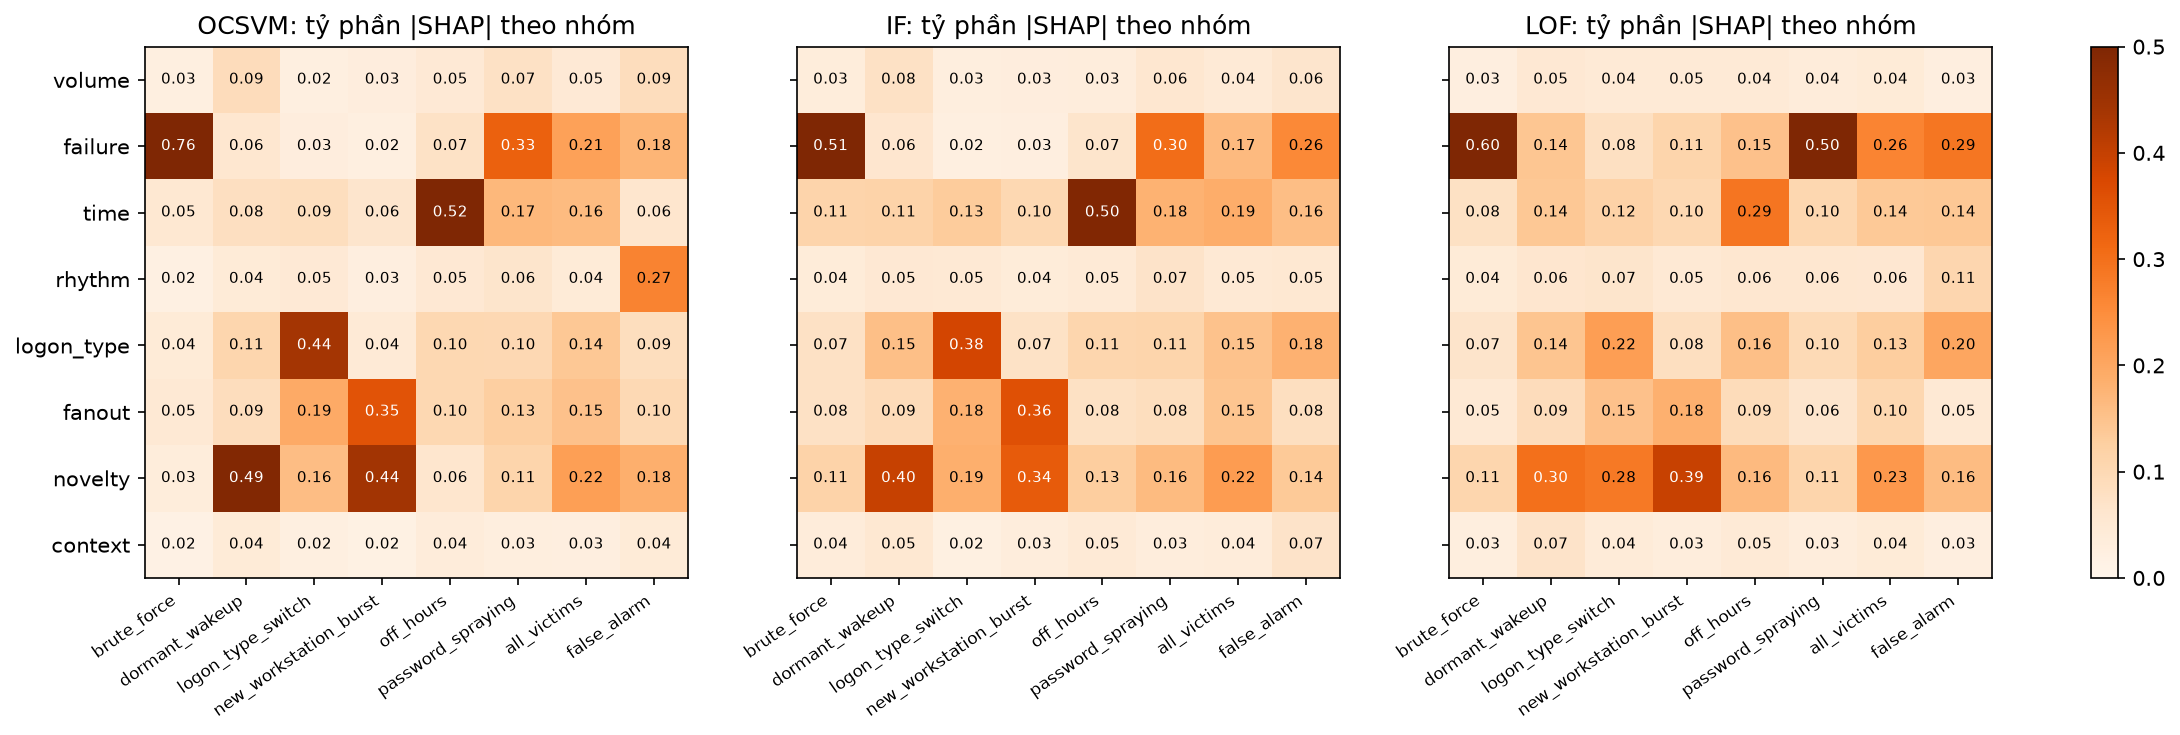
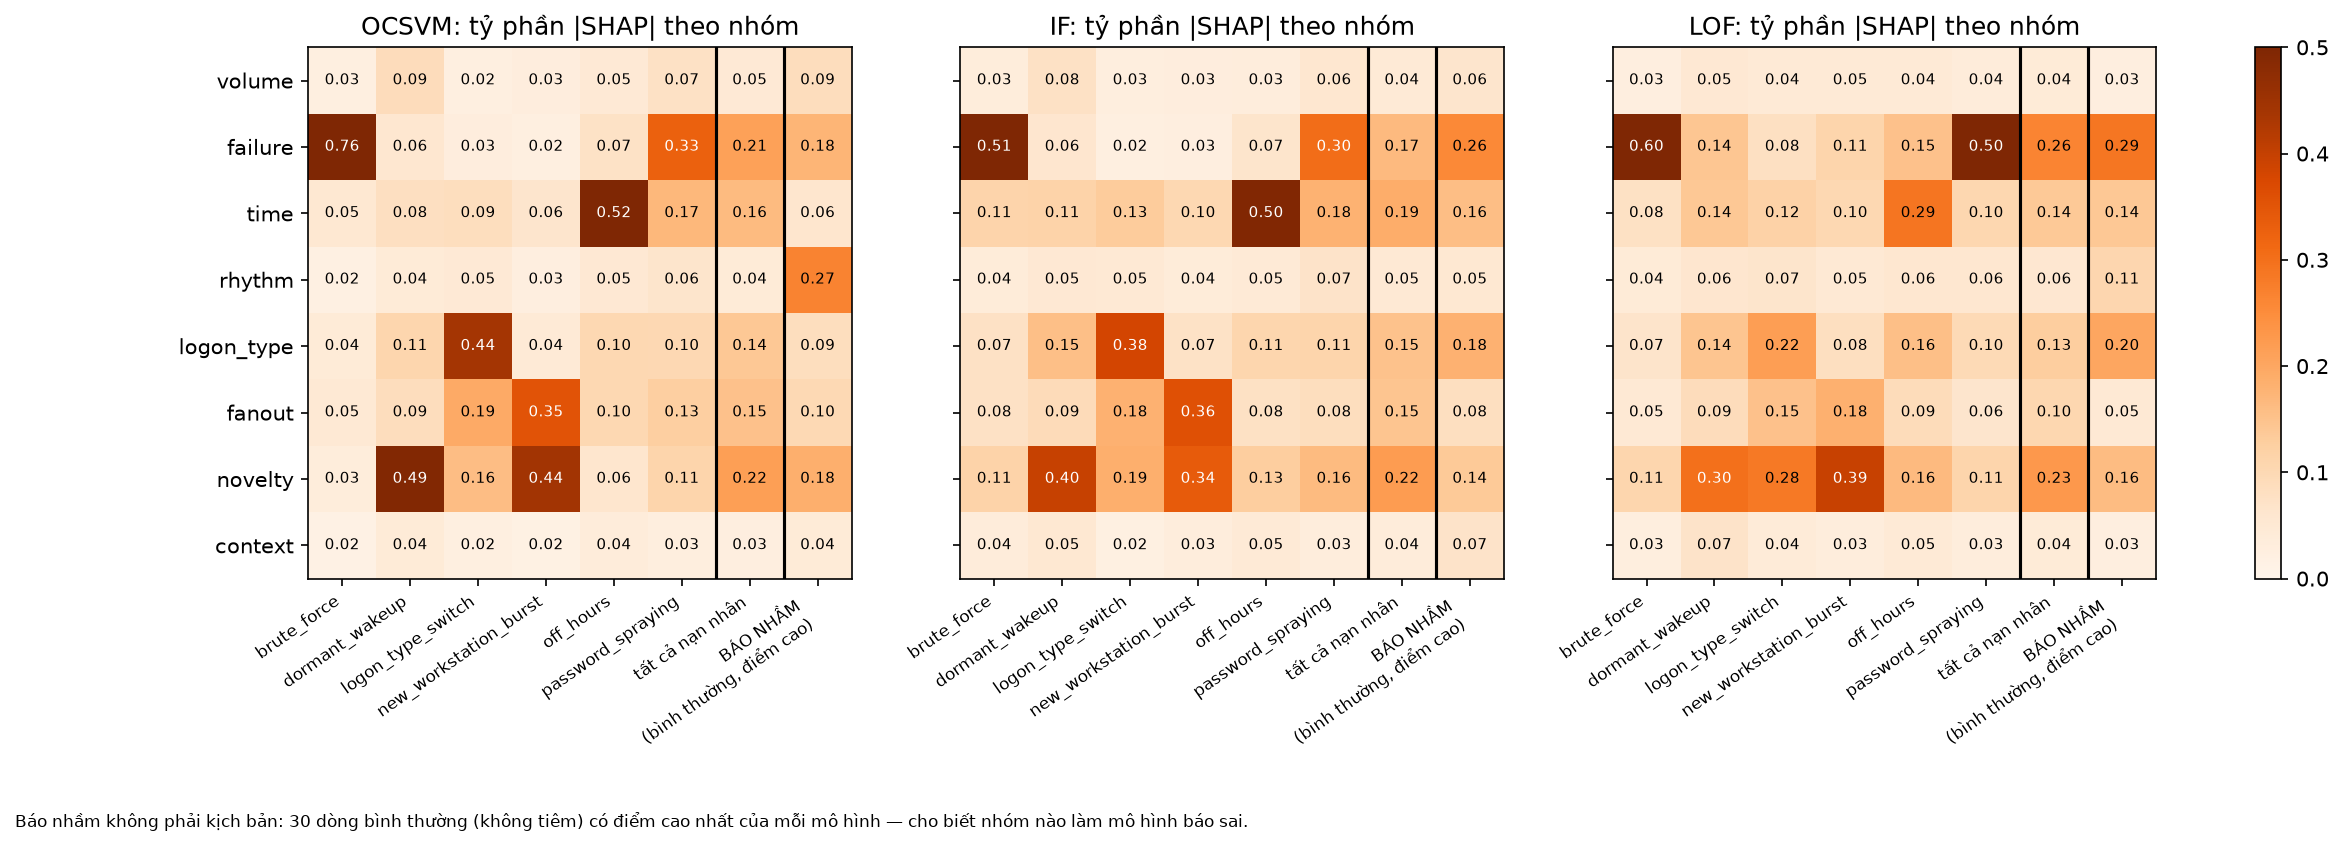
docs(reports): number week-5 figures, mark false-alarm column, clearer ablation footnotes
- reports/week5/figures renamed NN-name in report order; links updated in
  report, README and the scripts that write there
- SHAP heatmaps: false_alarm column relabelled and separated from the
  6 scenarios (it is top-scored normal rows, not an injected scenario);
  explain_models.py --replot redraws from saved CSVs
- ablation figures: 3-line footnote explaining cell value, * and the control
  row; run label (dev/test) now taken from run ids (test figure said "dev")
- report, summary and slides 10/14 define false alarms explicitly

diff --git a/scripts/evaluation/feature_ablation.py b/scripts/evaluation/feature_ablation.py
@@ -159,14 +159,16 @@ def analyze(out: Path, ref: str = "full") -> None:
     dov.round(4).to_csv(out / "delta_overall.csv", index=False, encoding="utf-8-sig")
     dsc = paired_delta(scen, ["model", "scenario"], SCEN, ref=ref)
     dsc.round(4).to_csv(out / "delta_scenario.csv", index=False, encoding="utf-8-sig")
-    plot(dsc, out, ref_label="bộ 30 đặc trưng" if ref == ADDBACK_REF else "đủ 41 đặc trưng")
+    kinds = sorted({r.split("_")[0] for r in runs["run_id"]})
+    plot(dsc, out, ref_label="bộ 30 đặc trưng" if ref == ADDBACK_REF else "đủ 41 đặc trưng",
+         runs_label=f"{runs['run_id'].nunique()} run {'/'.join(kinds)}")
     with pd.option_context("display.width", 220, "display.max_rows", 200):
         print(dov[["ablation", "model", "pr_auc_full", "d_pr_auc_mean", "d_pr_auc_std",
                    "recall_at_100_per_day_full", "d_recall_at_100_per_day_mean", "d_recall_at_100_per_day_std",
                    "d_precision_at_50_mean"]].round(3).to_string(index=False))
 
 
-def plot(dsc: pd.DataFrame, out: Path, ref_label: str = "đủ 41 đặc trưng") -> None:
+def plot(dsc: pd.DataFrame, out: Path, ref_label: str = "đủ 41 đặc trưng", runs_label: str = "5 run dev") -> None:
     import matplotlib
     matplotlib.use("Agg")
     import matplotlib.pyplot as plt
@@ -188,9 +190,16 @@ def plot(dsc: pd.DataFrame, out: Path, ref_label: str = "đủ 41 đặc trưng"
             ax.text(c, r, f"{v:+.2f}" + ("*" if clear.iat[r, c] else ""), ha="center", va="center", fontsize=7)
         ax.set_title(f"{SHORT[m]}: Δ recall top-100/ngày so với {ref_label}")
     fig.colorbar(im, ax=axes, fraction=0.015)
-    control = (f"{REPEAT} = fit lại y nguyên bộ 30 (nhiễu không tất định của LOF/HNSW)" if REPEAT in abl
-               else f"{CONTROL} = mức nhiễu do thứ tự dòng")
-    fig.text(0.01, -0.12, f"* = |Δ TB| > 1 std của Δ qua 5 run dev; {control}", fontsize=8)
+    control = (f"{REPEAT} = đối chứng: fit lại y nguyên bộ 30, không đổi đặc trưng. Ô khác 0 ở hàng này là nhiễu "
+               "do LOF không tất định (chỉ mục HNSW dựng đa luồng)." if REPEAT in abl
+               else f"{CONTROL} = đối chứng: giữ đủ 41 đặc trưng, chỉ xáo thứ tự dòng train. "
+                    "Ô khác 0 ở hàng này là nhiễu do thứ tự dòng.")
+    note = [f"Số trong ô = Δ recall top-100/ngày = (cấu hình ở hàng) − ({ref_label}), trung bình qua {runs_label}. "
+            "Xanh = tốt hơn, đỏ = tệ hơn.",
+            "Dấu * = thay đổi rõ: |Δ trung bình| lớn hơn độ lệch chuẩn của Δ giữa các run. "
+            "Cột all = toàn bộ nạn nhân của 6 kịch bản.",
+            control]
+    fig.text(0.01, -0.14, "\n".join(note), fontsize=8.5, va="top", linespacing=1.5)
     fig.savefig(out / "figures" / "delta_recall_by_scenario.png", dpi=150, bbox_inches="tight")
     plt.close(fig)
 

diff --git a/scripts/evaluation/explain_models.py b/scripts/evaluation/explain_models.py
@@ -42,6 +42,7 @@ logging.getLogger("shap").setLevel(logging.WARNING)
 
 ML = ["one_class_svm", "isolation_forest", "local_outlier_factor"]
 SHORT = {"one_class_svm": "OCSVM", "isolation_forest": "IF", "local_outlier_factor": "LOF"}
+COL_LABEL = {"false_alarm": "BÁO NHẦM\n(bình thường, điểm cao)", "all_victims": "tất cả nạn nhân"}
 
 
 def score_fn(pipe):
@@ -171,12 +172,16 @@ def plot(groups: pd.DataFrame, feats: pd.DataFrame, out: Path) -> None:
         cols = [c for c in piv.columns if c not in ("all_victims", "false_alarm")] + ["all_victims", "false_alarm"]
         piv = piv[cols]
         im = ax.imshow(piv.to_numpy(), cmap="Oranges", vmin=0, vmax=0.5, aspect="auto")
-        ax.set_xticks(range(len(cols)), cols, rotation=35, ha="right", fontsize=8)
+        ax.set_xticks(range(len(cols)), [COL_LABEL.get(c, c) for c in cols], rotation=35, ha="right", fontsize=8)
+        for x in (len(cols) - 2.5, len(cols) - 1.5):
+            ax.axvline(x, color="black", lw=1.5)
         ax.set_yticks(range(len(order)), order)
         for (r, c), v in np.ndenumerate(piv.to_numpy()):
             ax.text(c, r, f"{v:.2f}", ha="center", va="center", fontsize=7, color="white" if v > 0.3 else "black")
         ax.set_title(f"{SHORT[m]}: tỷ phần |SHAP| theo nhóm")
     fig.colorbar(im, ax=axes, fraction=0.015)
+    fig.text(0.01, -0.25, "Báo nhầm không phải kịch bản: 30 dòng bình thường (không tiêm) có điểm cao nhất của mỗi "
+             "mô hình — cho biết nhóm nào làm mô hình báo sai.", fontsize=8)
     fig.savefig(fig_dir / "shap_group_by_scenario.png", dpi=150, bbox_inches="tight")
     plt.close(fig)
 
@@ -208,7 +213,12 @@ def main() -> None:
     p.add_argument("--lime-every", type=int, default=2, help="LIME trên 1/N số dòng của SHAP (LIME chậm hơn)")
     p.add_argument("--skip-lime", action="store_true")
     p.add_argument("--out", default="experiments/analysis/explain")
+    p.add_argument("--replot", action="store_true", help="chỉ vẽ lại hình từ CSV đã có trong --out")
     args = p.parse_args()
+    if args.replot:
+        out = Path(args.out)
+        plot(pd.read_csv(out / "group_importance.csv"), pd.read_csv(out / "feature_importance.csv"), out)
+        return
 
     cfg = load_grid_config(args.grid)
     params = load_params("configs/model_params.yaml")

diff --git a/scripts/evaluation/shap_feature_stability.py b/scripts/evaluation/shap_feature_stability.py
@@ -40,6 +40,7 @@ from src.features.schema import FeatureSchema  # noqa: E402
 
 SHORT = {"one_class_svm": "OCSVM", "isolation_forest": "IF", "local_outlier_factor": "LOF"}
 ML = list(SHORT)
+COL_LABEL = {"false_alarm": "BÁO NHẦM\n(bình thường, điểm cao)", "all_victims": "tất cả nạn nhân"}
 SCEN = ["brute_force", "password_spraying", "off_hours", "logon_type_switch", "new_workstation_burst",
         "dormant_wakeup"]
 GROUP_COLOR = {"volume": "#8c564b", "failure": "#d62728", "time": "#9467bd", "rhythm": "#7f7f7f",
@@ -133,7 +134,8 @@ def plot_feature_by_scenario(scen: pd.DataFrame, order: list, dropped: set, out:
             if v >= 0.05:
                 ax.text(c, r, f"{v:.2f}", ha="center", va="center", fontsize=6,
                         color="white" if v > 0.25 else "black")
-        ax.set_xticks(range(len(cols)), cols, rotation=40, ha="right", fontsize=8)
+        ax.set_xticks(range(len(cols)), [COL_LABEL.get(c, c) for c in cols], rotation=40, ha="right", fontsize=8)
+        ax.axvline(len(SCEN) - 0.5, color="black", lw=1.5)
         ax.set_title(SHORT[m])
         bounds = np.flatnonzero(np.diff([list(ABLATION_GROUPS).index(FEATURE_GROUP[f]) for f in order])) + 0.5
         for b in bounds:
@@ -144,6 +146,8 @@ def plot_feature_by_scenario(scen: pd.DataFrame, order: list, dropped: set, out:
             t.set_color("red")
     fig.colorbar(im, ax=axes, fraction=0.02, label="tỷ phần |SHAP| TB qua run dev")
     fig.suptitle("Tỷ phần |SHAP| theo từng đặc trưng × kịch bản (vạch xám tách 8 nhóm; số ghi khi ≥ 0,05)")
+    fig.text(0.01, -0.06, "Cột cuối (sau vạch đen) không phải kịch bản: 30 dòng bình thường (không tiêm) có điểm cao "
+             "nhất của mỗi mô hình — cho biết đặc trưng nào làm mô hình báo sai.", fontsize=8)
     fig.savefig(out / "figures" / "feature_shap_by_scenario.png", dpi=150, bbox_inches="tight")
     plt.close(fig)
 

diff --git a/scripts/evaluation/plot_scenario_heatmap.py b/scripts/evaluation/plot_scenario_heatmap.py
@@ -9,7 +9,7 @@ Heatmap PR-AUC theo (mô hình × kịch bản) từ ``grid_scenarios_summary.cs
 - Hình phải: Δ PR-AUC (bộ 30 − bộ 41 của lưới tuần 4) cho 3 mô hình ML; baseline không đổi đặc trưng.
 - Viền đen: mô hình tốt nhất của từng kịch bản.
 
-Đầu ra: ``<main>/figures/scenario_pr_auc_heatmap.png`` + ``scenario_pr_auc_table.csv``, và bản sao trong ``--copy-to``.
+Đầu ra: ``<main>/figures/scenario_pr_auc_heatmap.png`` + ``scenario_pr_auc_table.csv``, và bản sao ``--copy-to`` (đường dẫn file).
 """
 
 from __future__ import annotations
@@ -45,7 +45,7 @@ def main() -> None:
     p = argparse.ArgumentParser(description=__doc__.split("\n")[1])
     p.add_argument("--main", default="experiments/grid/test_30f", help="lưới chính (bộ 30 đặc trưng)")
     p.add_argument("--ref", default="experiments/grid/test", help="lưới so sánh (41 đặc trưng, tuần 4)")
-    p.add_argument("--copy-to", default="reports/week5/figures")
+    p.add_argument("--copy-to", default="reports/week5/figures/04-scenario_pr_auc_heatmap.png")
     args = p.parse_args()
     main_dir, ref_dir = Path(args.main), Path(args.ref)
 
@@ -94,8 +94,8 @@ def main() -> None:
     fig.savefig(out, dpi=150, bbox_inches="tight")
     plt.close(fig)
     if args.copy_to:
-        Path(args.copy_to).mkdir(parents=True, exist_ok=True)
-        shutil.copy2(out, Path(args.copy_to) / out.name)
+        Path(args.copy_to).parent.mkdir(parents=True, exist_ok=True)
+        shutil.copy2(out, args.copy_to)
     print(table.loc["pr_auc_mean"].round(3).to_string())
     print(table.loc["lift_vs_random"].round(0).to_string())
     print(table.loc["delta_vs_41f"].loc[ML].round(3).to_string())

diff --git a/reports/week5/UEBA_Tuan5_Day_du.tex b/reports/week5/UEBA_Tuan5_Day_du.tex
@@ -477,9 +477,10 @@ Ngoài giờ & 0,008 ($\times$4) & \cellcolor{socteal!10}\textbf{0,010} ($\times
 \begin{columns}[T,onlytextwidth]
 \begin{column}{.53\textwidth}
 \begin{block}{Cách chạy}
-\begin{itemize}\setlength\itemsep{7pt}
+\begin{itemize}\setlength\itemsep{4pt}
 \item 1 run dev, seed mô hình 42 (+2 run dev chỉ SHAP, slide 13).
-\item SHAP: 180 nạn nhân và 30 dòng không tiêm điểm cao / mô hình.
+\item SHAP: 180 nạn nhân (6 kịch bản) và 30 \textbf{báo nhầm} / mô hình.
+\item Báo nhầm \emph{không phải kịch bản}: dòng không tiêm có điểm cao nhất, để xem đặc trưng nào làm mô hình báo sai.
 \item KernelSHAP: nền 50 dòng train, 1.000 mẫu.
 \item LIME: 105 dòng / mô hình, 2.000 mẫu nhiễu.
 \end{itemize}
@@ -594,7 +595,7 @@ Ngoài giờ & \feat{delta_mean_share_night_7d} & 0,34\\[3pt]
 Đổi LogonType & \feat{dist_shift_logontype_7d} & 0,32\\[3pt]
 Bùng nổ máy mới & \feat{new_source_count_7d} & 0,41\\[3pt]
 Thức dậy sau ngủ đông & \feat{days_since_last_activity} & 0,46\\[3pt]
-\textcolor{socred}{Báo nhầm} & \feat{delta_t_cv} & 0,23\\\bottomrule
+\textcolor{socred}{Báo nhầm (dòng không tiêm)} & \feat{delta_t_cv} & 0,23\\\bottomrule
 \end{tabularx}
 \vspace{.3em}
 \begin{itemize}\setlength\itemsep{3pt}

diff --git a/scripts/experiments/plot_window_comparison.py b/scripts/experiments/plot_window_comparison.py
@@ -1,4 +1,4 @@
-"""Vẽ reports/week5/figures/window_comparison.png từ window_comparison.csv."""
+"""Vẽ reports/week5/figures/01-window_comparison.png từ window_comparison.csv."""
 import pandas as pd, matplotlib
 matplotlib.use("Agg"); import matplotlib.pyplot as plt
 d=pd.read_csv("experiments/grid/window_ablation/window_comparison.csv")
@@ -15,4 +15,4 @@ for ax,(m,title) in zip(axes,[("recall_at_100_per_day","Recall top-100/ngày (ch
     for sp in ["top","right"]: ax.spines[sp].set_visible(False)
 h,l=axes[0].get_legend_handles_labels(); fig.legend(h,l,frameon=False,loc="lower center",ncol=3,bbox_to_anchor=(0.5,0))
 fig.suptitle("Độ dài cửa sổ lịch sử: TB ± std qua 5 model seed, run test_seed20261061",fontsize=12)
-fig.tight_layout(rect=(0,0.07,1,1)); fig.savefig("reports/week5/figures/window_comparison.png",dpi=150)
+fig.tight_layout(rect=(0,0.07,1,1)); fig.savefig("reports/week5/figures/01-window_comparison.png",dpi=150)

diff --git a/README.md b/README.md
@@ -12,7 +12,7 @@ python -X utf8 scripts/experiments/window_ablation.py --run data/injection_runs/
 python scripts/evaluation/scenario_analysis.py             # theo kịch bản -> experiments/analysis/scenario/
 python scripts/evaluation/build_review_set.py              # bộ review top 50 làm mù -> experiments/analysis/review_top50/
 python scripts/evaluation/review_agreement.py              # Cohen's kappa sau khi hai người chấm xong
-python scripts/evaluation/explain_models.py                # SHAP/LIME -> experiments/analysis/explain/
+python scripts/evaluation/explain_models.py                # SHAP/LIME -> experiments/analysis/explain/ (--replot: chỉ vẽ lại hình)
 python scripts/evaluation/shap_feature_stability.py        # SHAP từng đặc trưng qua 3 run dev -> experiments/analysis/explain_stability/
 python scripts/evaluation/feature_ablation.py              # ablation trên dev -> experiments/ablation/feature_groups/
 python scripts/evaluation/feature_ablation.py --mode addback   # thêm lại từng đặc trưng vào bộ 30 -> experiments/ablation/addback/

diff --git a/reports/week5/tom_tat_tuan5.md b/reports/week5/tom_tat_tuan5.md
@@ -72,7 +72,7 @@ Lấy 50 cảnh báo điểm cao nhất của mỗi mô hình (OCSVM, IF, LOF), 
 
 ## 4. SHAP và LIME → mỗi kịch bản được giải thích đúng bằng nhóm đặc trưng thiết kế cho nó
 
-Giải thích điểm của ba mô hình chốt trên một run dev, gồm 30 nạn nhân mỗi kịch bản và 30 báo nhầm của mỗi mô hình. 41 đặc trưng được chia thành 8 nhóm theo nghĩa: volume, failure, time, rhythm, logon_type, fanout, novelty, context.
+Giải thích điểm của ba mô hình chốt trên một run dev, gồm 30 nạn nhân mỗi kịch bản và 30 báo nhầm của mỗi mô hình. Báo nhầm không phải kịch bản tiêm: đó là 30 dòng bình thường (không tiêm) có điểm cao nhất, dùng để xem đặc trưng nào làm mô hình báo sai. 41 đặc trưng được chia thành 8 nhóm theo nghĩa: volume, failure, time, rhythm, logon_type, fanout, novelty, context.
 
 - **Mỗi nhóm đẩy điểm của đúng kịch bản thiết kế cho nó:**
   - failure → brute_force (tỷ phần 0,51–0,76);
